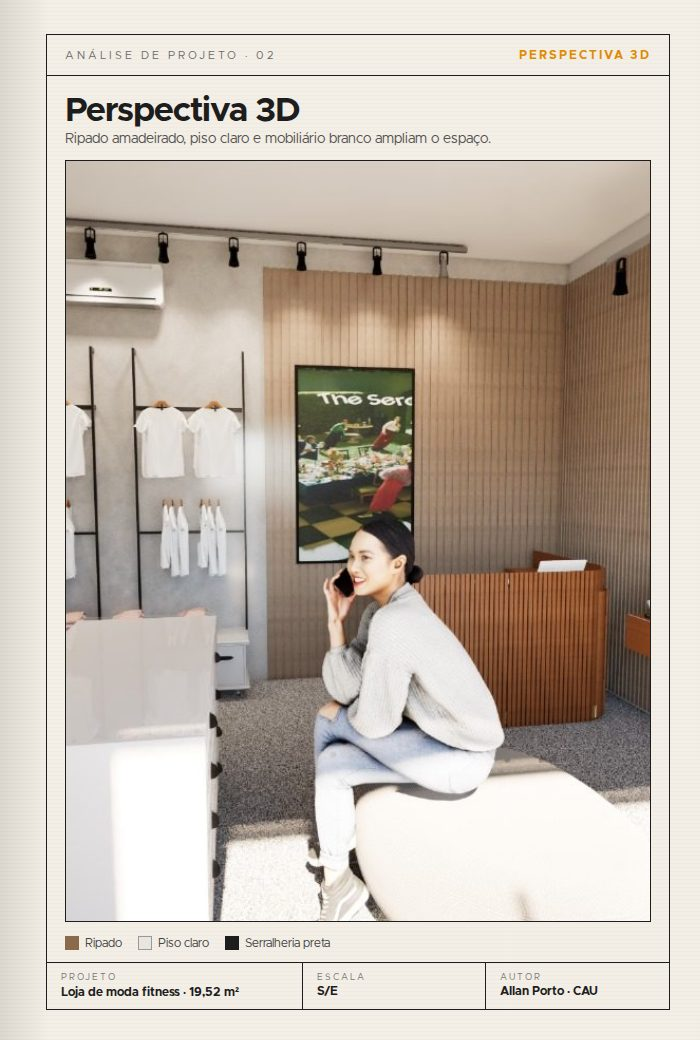
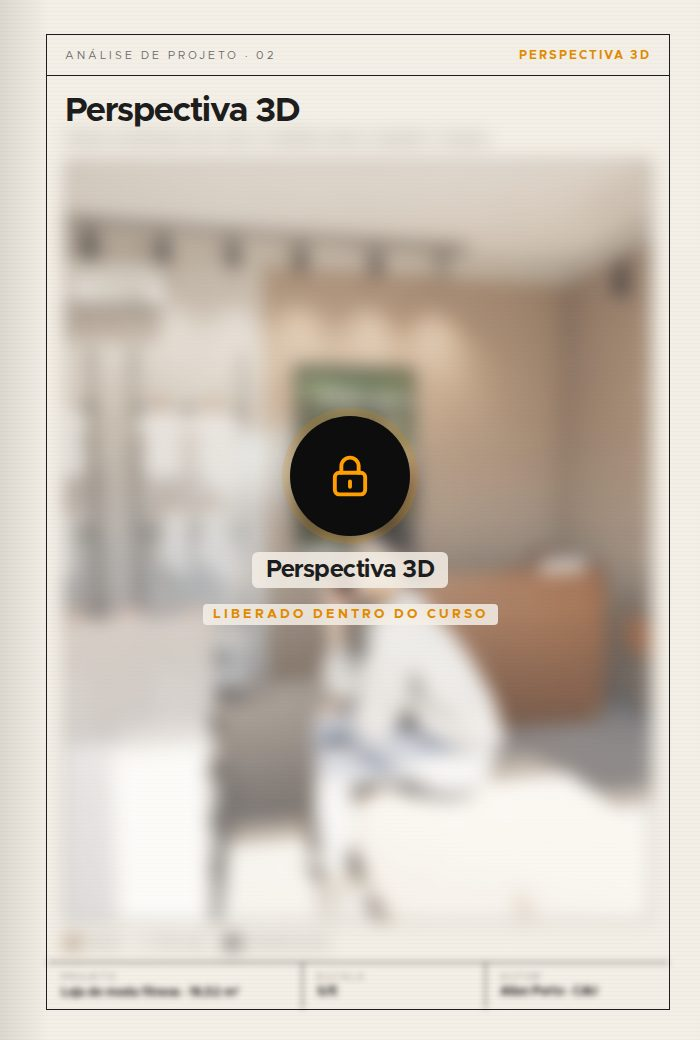
Página de vendas: hero com curiosidade, pilares com imagem, livro misterioso, depoimentos e retrato de autoridade
- hero: nova copy que desperta curiosidade sem entregar o método
- 4 pilares com imagem de referência translúcida ao fundo (home e curso)
- livro animado mostra páginas desfocadas com cadeado ('Liberado dentro do curso')
- retrato de autoridade (blazer, fundo de loja desfocado) na seção Sobre
- 2 depoimentos reais, com título que deixa claro que são de outro material

Claude-Session: https://claude.ai/code/session_01KcFh79MTyFTv5wgDkiUbTf

Changed region(s): [[0.06, 0.1231, 0.96, 0.9846]]

diff --git a/site/loja-que-vende/curso/index.html b/site/loja-que-vende/curso/index.html
@@ -31,9 +31,10 @@
   .etapa .num{width:72px;height:72px;border-radius:50%;background:var(--bg);border:2px solid var(--accent);color:var(--accent);font-size:28px;font-weight:700;display:grid;place-items:center;margin:0 auto 26px;position:relative;box-shadow:0 0 40px -8px var(--accent-50)}
   .etapa small{display:block;color:var(--accent);letter-spacing:3px;font-size:12px;text-transform:uppercase;margin-bottom:8px}
   .etapa h3{font-size:22px;letter-spacing:-.4px;margin-bottom:8px}
-  .prints{display:grid;grid-template-columns:repeat(4,1fr);gap:22px;margin-top:60px}
-  .print{position:relative;aspect-ratio:9/16;border-radius:28px;overflow:hidden}
-  .print img{position:relative;z-index:1;width:100%;height:100%;object-fit:cover}
+  .prints{display:grid;grid-template-columns:repeat(2,1fr);gap:28px;margin:60px auto 0;max-width:900px;align-items:start}
+  .print{position:relative;margin:0;border-radius:22px;overflow:hidden;border:1px solid var(--line-soft);box-shadow:0 30px 70px -30px rgba(0,0,0,.9),0 0 60px -30px rgba(255,159,1,.35);transition:transform .5s}
+  .print:hover{transform:translateY(-6px) rotate(-.4deg)}
+  .print img{display:block;width:100%;height:auto}
   .print .vaga{border-radius:28px}
   .preco{text-align:center;background:var(--bg);border:1px solid #FF9F0155;border-radius:var(--r-card);padding:40px 32px;box-shadow:0 0 80px -30px var(--accent)}
   .preco .de{font-size:20px}
@@ -55,12 +56,11 @@
   @media (max-width:1024px){
     .amostras.seis,.inventario{grid-template-columns:1fr 1fr}
     .fluxo{grid-template-columns:1fr 1fr;row-gap:48px}.fluxo::before{display:none}
-    .prints{grid-template-columns:1fr 1fr}
   }
   @media (max-width:767px){
     .hero-curso h1{font-size:34px;letter-spacing:-1px}.hero-curso .sub{font-size:17px}
     .amostras.seis,.inventario,.fluxo{grid-template-columns:1fr}
-    .prints{gap:12px}.print,.print .vaga{border-radius:18px}
+    .prints{grid-template-columns:1fr;gap:18px}.print{border-radius:18px}
     .preco .por{font-size:72px}
     .garantia{flex-direction:column;text-align:center;padding:36px 24px;gap:24px}
   }
@@ -176,9 +176,9 @@
   <div class="wrap">
     <div class="conteudo">
       <span class="produto-nome"><b>Loja que Vende</b> · Curso online · Para lojistas e arquitetos</span>
-      <h1>Sua loja pode vender mais <span class="laranja">sem reforma cara.</span> O segredo está no layout.</h1>
-      <p class="sub">Projeto estratégico de layout para mais vendas: fluxo, zoneamento, pontos de decisão e iluminação, aplicados na sua loja em 4 aulas diretas.</p>
-      <span class="micro">4 aulas gravadas · 4 PDFs de apoio · Estudo de caso real</span>
+      <h1>Sua loja pode vender mais <span class="laranja">sem reforma cara.</span></h1>
+      <p class="sub">O segredo não está no produto, no preço nem no vendedor. Está em algo que acontece nos primeiros passos do cliente dentro da loja, e que quase nenhum lojista percebe.</p>
+      <span class="micro">Método em 4 aulas diretas · Criado por arquiteto especialista em varejo</span>
     </div>
   </div>
 </section>
@@ -226,10 +226,10 @@
     <h2 class="h2">Os 4 pilares do Método Loja que Vende</h2>
     <p class="bee-slogan">Do espaço à experiência: <b>arquitetura que impulsiona resultados.</b></p>
     <div class="metodo-grid">
-      <div class="passo-bee surge"><div class="letra">01</div><h3>Diagnóstico do fluxo</h3><p>Por onde o cliente entra, pra onde olha primeiro e onde desiste. E a vitrine que faz parar na calçada.</p></div>
-      <div class="passo-bee surge"><div class="letra">02</div><h3>Zoneamento comercial</h3><p>Produto de maior margem na zona quente, zona fria puxando o cliente pela loja inteira.</p></div>
-      <div class="passo-bee surge"><div class="letra">03</div><h3>Pontos de decisão</h3><p>Criar, de propósito, os lugares onde o cliente para, olha e considera comprar.</p></div>
-      <div class="passo-bee surge"><div class="letra">04</div><h3>Iluminação estratégica</h3><p>Luz de vitrine, spot no produto-foco, caixa sem sombra e provador que vende.</p></div>
+      <div class="passo-bee surge com-bg" style="--bg:url(../../img/caso-fachada.jpg)"><div class="letra">01</div><h3>Diagnóstico do fluxo</h3><p>Por onde o cliente entra, pra onde olha primeiro e onde desiste. E a vitrine que faz parar na calçada.</p></div>
+      <div class="passo-bee surge com-bg" style="--bg:url(../../img/caso-provador.jpg)"><div class="letra">02</div><h3>Zoneamento comercial</h3><p>Produto de maior margem na zona quente, zona fria puxando o cliente pela loja inteira.</p></div>
+      <div class="passo-bee surge com-bg" style="--bg:url(../../img/caso-pausa.jpg)"><div class="letra">03</div><h3>Pontos de decisão</h3><p>Criar, de propósito, os lugares onde o cliente para, olha e considera comprar.</p></div>
+      <div class="passo-bee surge com-bg" style="--bg:url(../../img/caso-luz.jpg)"><div class="letra">04</div><h3>Iluminação estratégica</h3><p>Luz de vitrine, spot no produto-foco, caixa sem sombra e provador que vende.</p></div>
     </div>
   </div>
 </section>
@@ -330,14 +330,11 @@
 <section class="sec centro" style="padding-top:40px">
   <div class="wrap">
     <span class="eyebrow">Depoimentos reais</span>
-    <h2 class="h2">Quem aplicou, recomenda</h2>
-    <p class="lead">Prints reais de conversas com lojistas e profissionais que aplicaram o Método Loja que Vende.</p>
-    <!-- Para publicar um depoimento: salve o print como img/depoimento-1.jpg (até -4.jpg). O espaço reservado some sozinho quando o arquivo existe. -->
+    <h2 class="h2">O que dizem sobre os materiais do Allan</h2>
+    <p class="lead">Prints reais de conversas com clientes que usaram outro material do Allan, sobre regularização de imóveis. Os depoimentos do Loja que Vende entram aqui assim que as primeiras turmas aplicarem o método.</p>
     <div class="prints">
-      <div class="print tem-foto surge"><img src="../../img/depoimento-1.jpg" alt="Depoimento de cliente no WhatsApp" loading="lazy" onerror="this.remove()"><div class="vaga"><span>Print do WhatsApp</span><b>Depoimento 1</b><span>em breve</span></div></div>
-      <div class="print tem-foto surge"><img src="../../img/depoimento-2.jpg" alt="Depoimento de cliente no WhatsApp" loading="lazy" onerror="this.remove()"><div class="vaga"><span>Print do WhatsApp</span><b>Depoimento 2</b><span>em breve</span></div></div>
-      <div class="print tem-foto surge"><img src="../../img/depoimento-3.jpg" alt="Depoimento de cliente no WhatsApp" loading="lazy" onerror="this.remove()"><div class="vaga"><span>Print do WhatsApp</span><b>Depoimento 3</b><span>em breve</span></div></div>
-      <div class="print tem-foto surge"><img src="../../img/depoimento-4.jpg" alt="Depoimento de cliente no WhatsApp" loading="lazy" onerror="this.remove()"><div class="vaga"><span>Print do WhatsApp</span><b>Depoimento 4</b><span>em breve</span></div></div>
+      <figure class="print surge"><img src="../../img/depoimento-1.jpg" alt="Print de depoimento de cliente no WhatsApp sobre o material de regularização" loading="lazy"></figure>
+      <figure class="print surge"><img src="../../img/depoimento-2.jpg" alt="Print de depoimento de cliente no WhatsApp sobre o material de regularização" loading="lazy"></figure>
     </div>
   </div>
 </section>
@@ -357,7 +354,7 @@
 
 <section class="dupla inverte glow esq">
   <div class="wrap">
-    <div class="foto tem-foto premium surge" style="aspect-ratio:4/5;width:44%"><img src="../../img/allan-retrato.jpg" alt="Allan Porto, arquiteto e criador do Loja que Vende" loading="lazy" onerror="this.remove()"><div class="vaga"><span class="mono">AP</span></div></div>
+    <div class="foto tem-foto premium surge" style="aspect-ratio:1;width:46%"><img src="../../img/allan-autoridade.jpg" alt="Allan Porto, arquiteto e criador do Loja que Vende" loading="lazy" onerror="this.remove()"><div class="vaga"><span class="mono">AP</span></div></div>
     <div class="cartao surge">
       <span class="eyebrow" style="display:block">Sobre o autor</span>
       <h2>Feito por quem vive o varejo</h2>

diff --git a/design/paginas.html b/design/paginas.html
@@ -29,6 +29,15 @@ h1{font-size:34px;letter-spacing:-1px;padding:18px 18px 4px}
 .leg span{display:flex;align-items:center;gap:6px}
 .leg i{width:14px;height:14px;display:inline-block}
 text{font-family:M,sans-serif}
+
+body.mist .area,body.mist .leg,body.mist .sub{filter:blur(9px);opacity:.75}
+body.mist .carimbo{filter:blur(3px)}
+.cadeado{display:none}
+body.mist .cadeado{display:flex;position:absolute;left:0;right:0;top:40%;flex-direction:column;align-items:center;gap:16px;z-index:5;text-align:center}
+.cadeado .c{width:120px;height:120px;border-radius:50%;background:#0D0D0D;display:grid;place-items:center;box-shadow:0 0 0 8px rgba(224,138,0,.18),0 20px 50px -10px rgba(0,0,0,.5)}
+.cadeado .c svg{width:52px;height:52px;fill:none;stroke:#FF9F01;stroke-width:1.8;stroke-linecap:round}
+.cadeado b{font-size:24px;letter-spacing:-.5px;color:#1d1d1d;background:rgba(244,239,230,.85);padding:6px 14px;border-radius:6px}
+.cadeado small{font-size:13px;letter-spacing:3px;text-transform:uppercase;color:#E08A00;font-weight:700;background:rgba(244,239,230,.85);padding:4px 10px;border-radius:4px}
 </style>
 </head>
 <body>
@@ -100,6 +109,13 @@ if (p === '1') {
     seta('M350 112 V146') + seta('M350 222 V256') + seta('M350 332 V366') + seta('M255 406 H229') + seta('M130 442 V476') + seta('M225 516 H251') + seta('M350 552 V586') + box + '</svg></div>' + carimbo('—');
 }
 document.getElementById('f').innerHTML = H;
+if (new URLSearchParams(location.search).get('m')) {
+  document.body.classList.add('mist');
+  var temas = {1:'Planta baixa estratégica',2:'Perspectiva 3D',3:'Projeto luminotécnico',4:'Fluxo do cliente'};
+  var d = document.createElement('div'); d.className = 'cadeado';
+  d.innerHTML = '<span class="c"><svg viewBox="0 0 24 24"><rect x="5" y="10.5" width="14" height="10" rx="2"/><path d="M8 10.5V7.5a4 4 0 0 1 8 0v3"/><path d="M12 14.5v2.5"/></svg></span><b>' + temas[p] + '</b><small>Liberado dentro do curso</small>';
+  document.body.appendChild(d);
+}
 </script>
 </body>
 </html>

diff --git a/site/index.html b/site/index.html
@@ -111,10 +111,10 @@
     <h2 class="h2">Método Loja que Vende</h2>
     <p class="bee-slogan">Loja que mais vende não é a mais bonita. É a <b>desenhada pra conduzir o cliente</b> do primeiro olhar até o caixa.</p>
     <div class="metodo-grid">
-      <div class="passo-bee surge"><div class="letra">01</div><h3>Diagnóstico do fluxo</h3><p>Por onde o cliente entra, pra onde olha primeiro e onde desiste.</p></div>
-      <div class="passo-bee surge"><div class="letra">02</div><h3>Zoneamento comercial</h3><p>Produto certo na zona quente, produto certo na zona fria.</p></div>
-      <div class="passo-bee surge"><div class="letra">03</div><h3>Pontos de decisão</h3><p>Criar, de propósito, os lugares onde o cliente para e considera comprar.</p></div>
-      <div class="passo-bee surge"><div class="letra">04</div><h3>Iluminação estratégica</h3><p>Luz que guia o olhar até o produto certo, não só decora.</p></div>
+      <div class="passo-bee surge com-bg" style="--bg:url(img/caso-fachada.jpg)"><div class="letra">01</div><h3>Diagnóstico do fluxo</h3><p>Por onde o cliente entra, pra onde olha primeiro e onde desiste.</p></div>
+      <div class="passo-bee surge com-bg" style="--bg:url(img/caso-provador.jpg)"><div class="letra">02</div><h3>Zoneamento comercial</h3><p>Produto certo na zona quente, produto certo na zona fria.</p></div>
+      <div class="passo-bee surge com-bg" style="--bg:url(img/caso-pausa.jpg)"><div class="letra">03</div><h3>Pontos de decisão</h3><p>Criar, de propósito, os lugares onde o cliente para e considera comprar.</p></div>
+      <div class="passo-bee surge com-bg" style="--bg:url(img/caso-luz.jpg)"><div class="letra">04</div><h3>Iluminação estratégica</h3><p>Luz que guia o olhar até o produto certo, não só decora.</p></div>
     </div>
   </div>
 </section>

diff --git a/site/assets/base.css b/site/assets/base.css
@@ -298,3 +298,9 @@ a.produto:hover .arte img.capa{transform:scale(1.04) rotate(-1deg)}
   .dupla .foto.surge{transform:translateY(calc(-50% + 24px))}
   .dupla .foto.surge.visivel{transform:translateY(-50%)}
 }
+
+/* pilares com imagem de referência ao fundo */
+.passo-bee.com-bg{position:relative;overflow:hidden;isolation:isolate}
+.passo-bee.com-bg::before{content:"";position:absolute;inset:0;background:var(--bg) center/cover no-repeat;opacity:.34;filter:saturate(.65) contrast(1.05);transform:scale(1.02);transition:opacity .7s,transform 1.4s cubic-bezier(.2,.7,.2,1);z-index:-2}
+.passo-bee.com-bg::after{content:"";position:absolute;inset:0;background:linear-gradient(180deg,rgba(26,26,26,.35) 0%,rgba(26,26,26,.82) 45%,#1A1A1A 80%);z-index:-1}
+.passo-bee.com-bg:hover::before{opacity:.42;transform:scale(1.09)}
